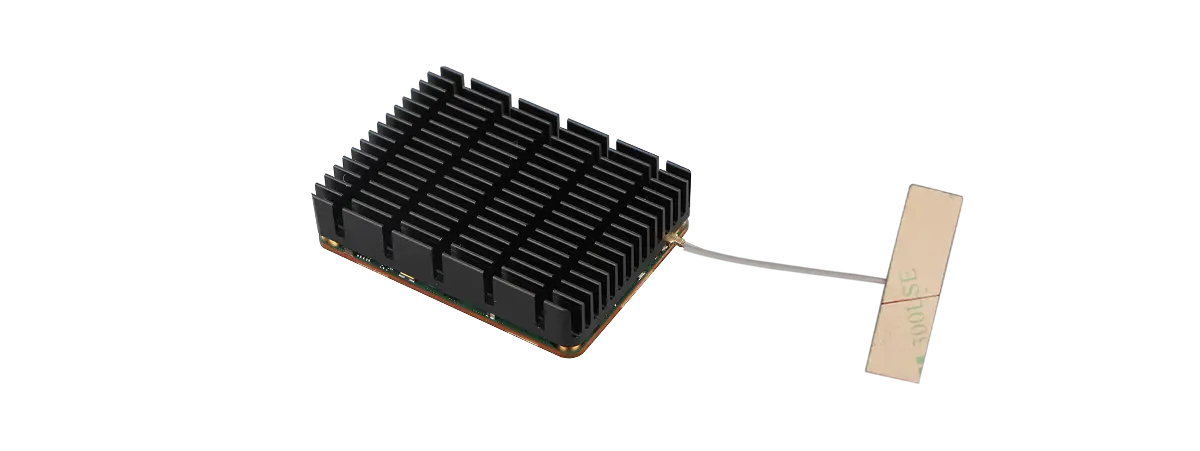
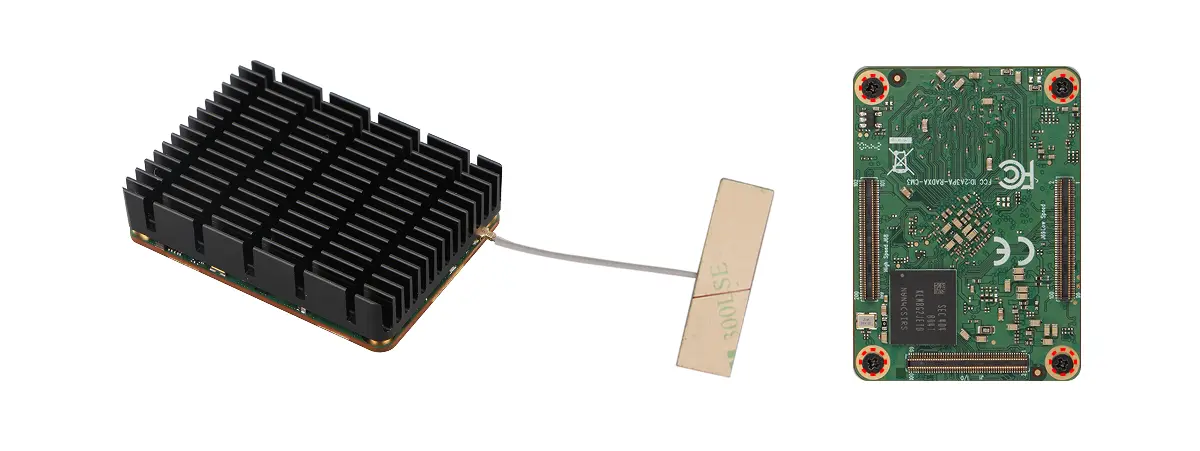
fix: heatsink 5540a screws unit and replace install heatsink pic

diff --git a/i18n/en/docusaurus-plugin-content-docs/current/accessories/heatsink-case/heatsink-5540a.md b/i18n/en/docusaurus-plugin-content-docs/current/accessories/heatsink-case/heatsink-5540a.md
@@ -34,7 +34,7 @@ This section uses Radxa CM3 as an example to demonstrate how to install the 5540
 
 - 1x Heatsink
 - 1x Thermal pad
-- 4x CM2 x 4 screws
+- 4x CM2 x 4 mm screws
 
 ### Install the Antenna (Optional)
 
@@ -54,7 +54,7 @@ Place the thermal pad on the SoC of the CM3.
 
 ### Secure the Heatsink
 
-Use 4 CM2 x 4 screws to fasten the heatsink from the bottom side through the CM3 mounting holes.
+Use 4 CM2 x 4 mm screws to fasten the heatsink from the bottom side through the CM3 mounting holes.
 
 <div style={{textAlign: 'center'}}>
     <img src="/en/img/accessories/heatsink-case/heatsink-5540a/install-heatsink.webp" style={{width: '100%', maxWidth: '1200px'}} />

diff --git a/docs/accessories/heatsink-case/heatsink-5540a.md b/docs/accessories/heatsink-case/heatsink-5540a.md
@@ -34,7 +34,7 @@ sidebar_position: 15
 
 - 1x 散热器
 - 1x 导热硅胶片
-- 4x CM2 x 4 螺丝
+- 4x CM2 x 4 mm 螺丝
 
 ### 安装天线（可选）
 
@@ -54,7 +54,7 @@ sidebar_position: 15
 
 ### 固定散热器
 
-使用 4 颗 CM2 x 4 螺丝从 CM3 的固定孔位底部固定散热器。
+使用 4 颗 CM2 x 4 mm 螺丝从 CM3 的固定孔位底部固定散热器。
 
 <div style={{textAlign: 'center'}}>
     <img src="/img/accessories/heatsink-case/heatsink-5540a/install-heatsink.webp" style={{width: '100%', maxWidth: '1200px'}} />
